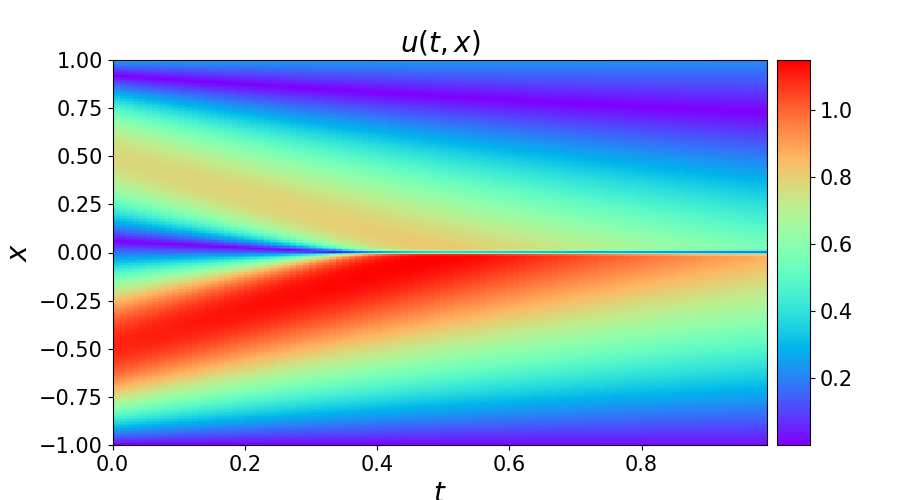
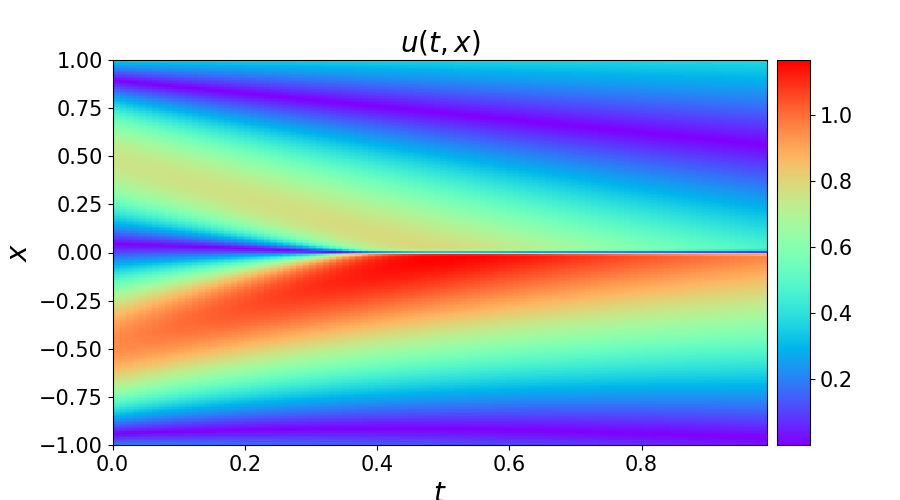
fix

diff --git a/1D_Burgers_Equation_custom/model.py b/1D_Burgers_Equation_custom/model.py
@@ -62,17 +62,27 @@ class PhysicsInformedNN:
         self.dnn = DNN(layers).to(device)
 
         # optimizers: using the same settings
+        # self.optimizer = torch.optim.LBFGS(
+        #     self.dnn.parameters(),
+        #     lr=1.0,
+        #     max_iter=50000,
+        #     max_eval=50000,
+        #     history_size=50,
+        #     tolerance_grad=1e-5,
+        #     tolerance_change=1.0 * np.finfo(float).eps,
+        #     line_search_fn="strong_wolfe",  # can be "strong_wolfe"
+        # )
+
         self.optimizer = torch.optim.LBFGS(
             self.dnn.parameters(),
             lr=1.0,
-            max_iter=50000,
-            max_eval=50000,
+            max_iter=5,
+            max_eval=5,
             history_size=50,
             tolerance_grad=1e-5,
             tolerance_change=1.0 * np.finfo(float).eps,
             line_search_fn="strong_wolfe",  # can be "strong_wolfe"
         )
-
 
         self.iter = 0
 

diff --git a/1D_Burgers_Equation/1D_Burgers_Equation.py b/1D_Burgers_Equation/1D_Burgers_Equation.py
@@ -153,7 +153,7 @@ if __name__ == "__main__":
 
     # train pinn
     pinn.fit(
-        50000,
+        3,
         checkpoint_path="checkpoint.pt",
         restart=True,
         lbfgs_finetuning=False,
@@ -228,5 +228,10 @@ if __name__ == "__main__":
     # plt.show()
     plt.savefig("res.png")
     
+    error_u = np.linalg.norm(Exact - pred, 2) / np.linalg.norm(Exact, 2)
+    print("Relatively Error u: %e" % (error_u))
+    Error = np.abs(Exact - pred)
+    print("Absolute Error u: {}".format(np.sum(Error)))
+
     
     # print("error = {}".format(np.sum(np.abs(Exact.T - pred.T))))
